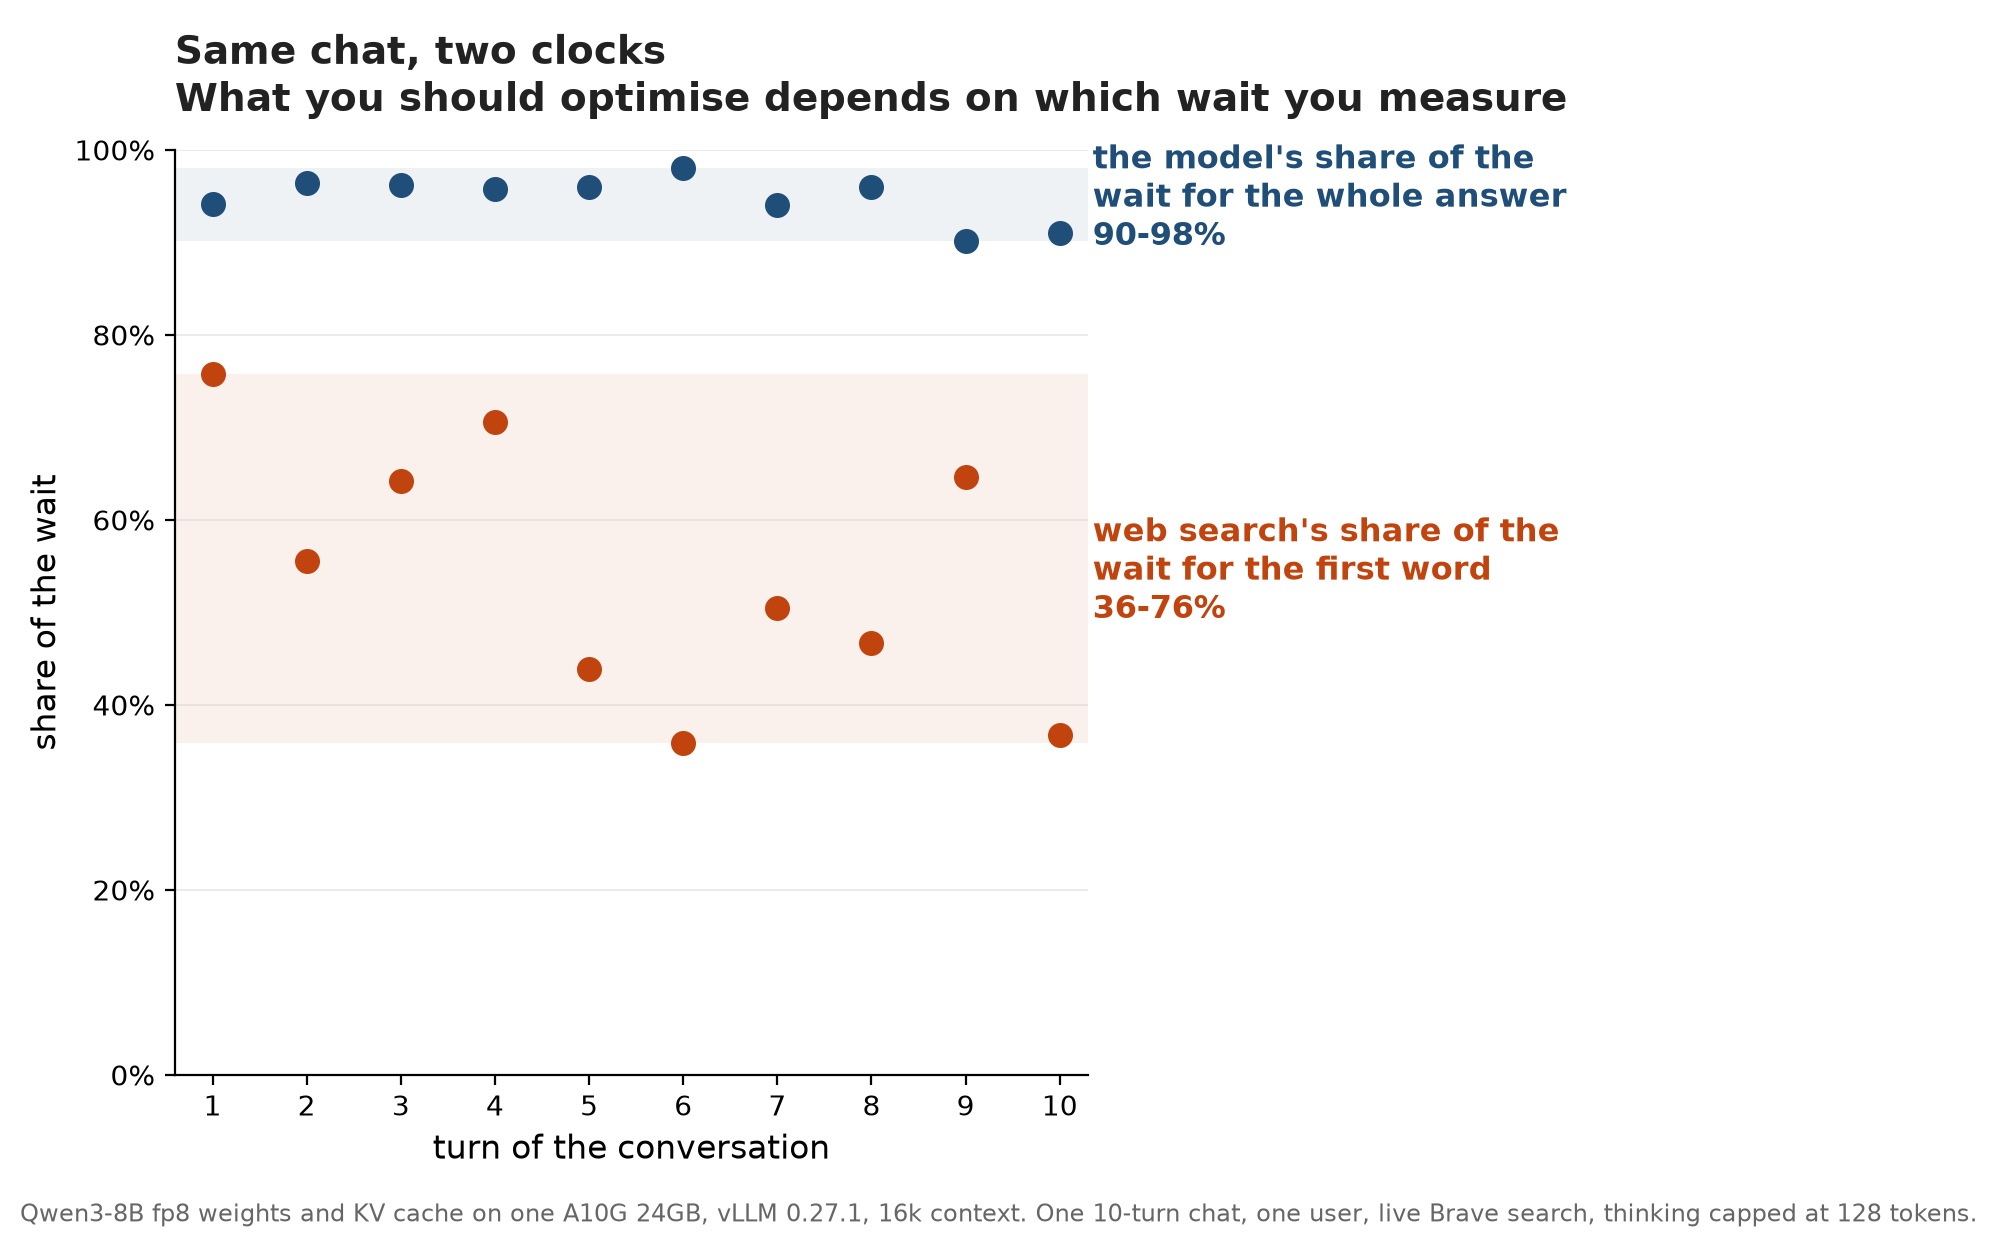
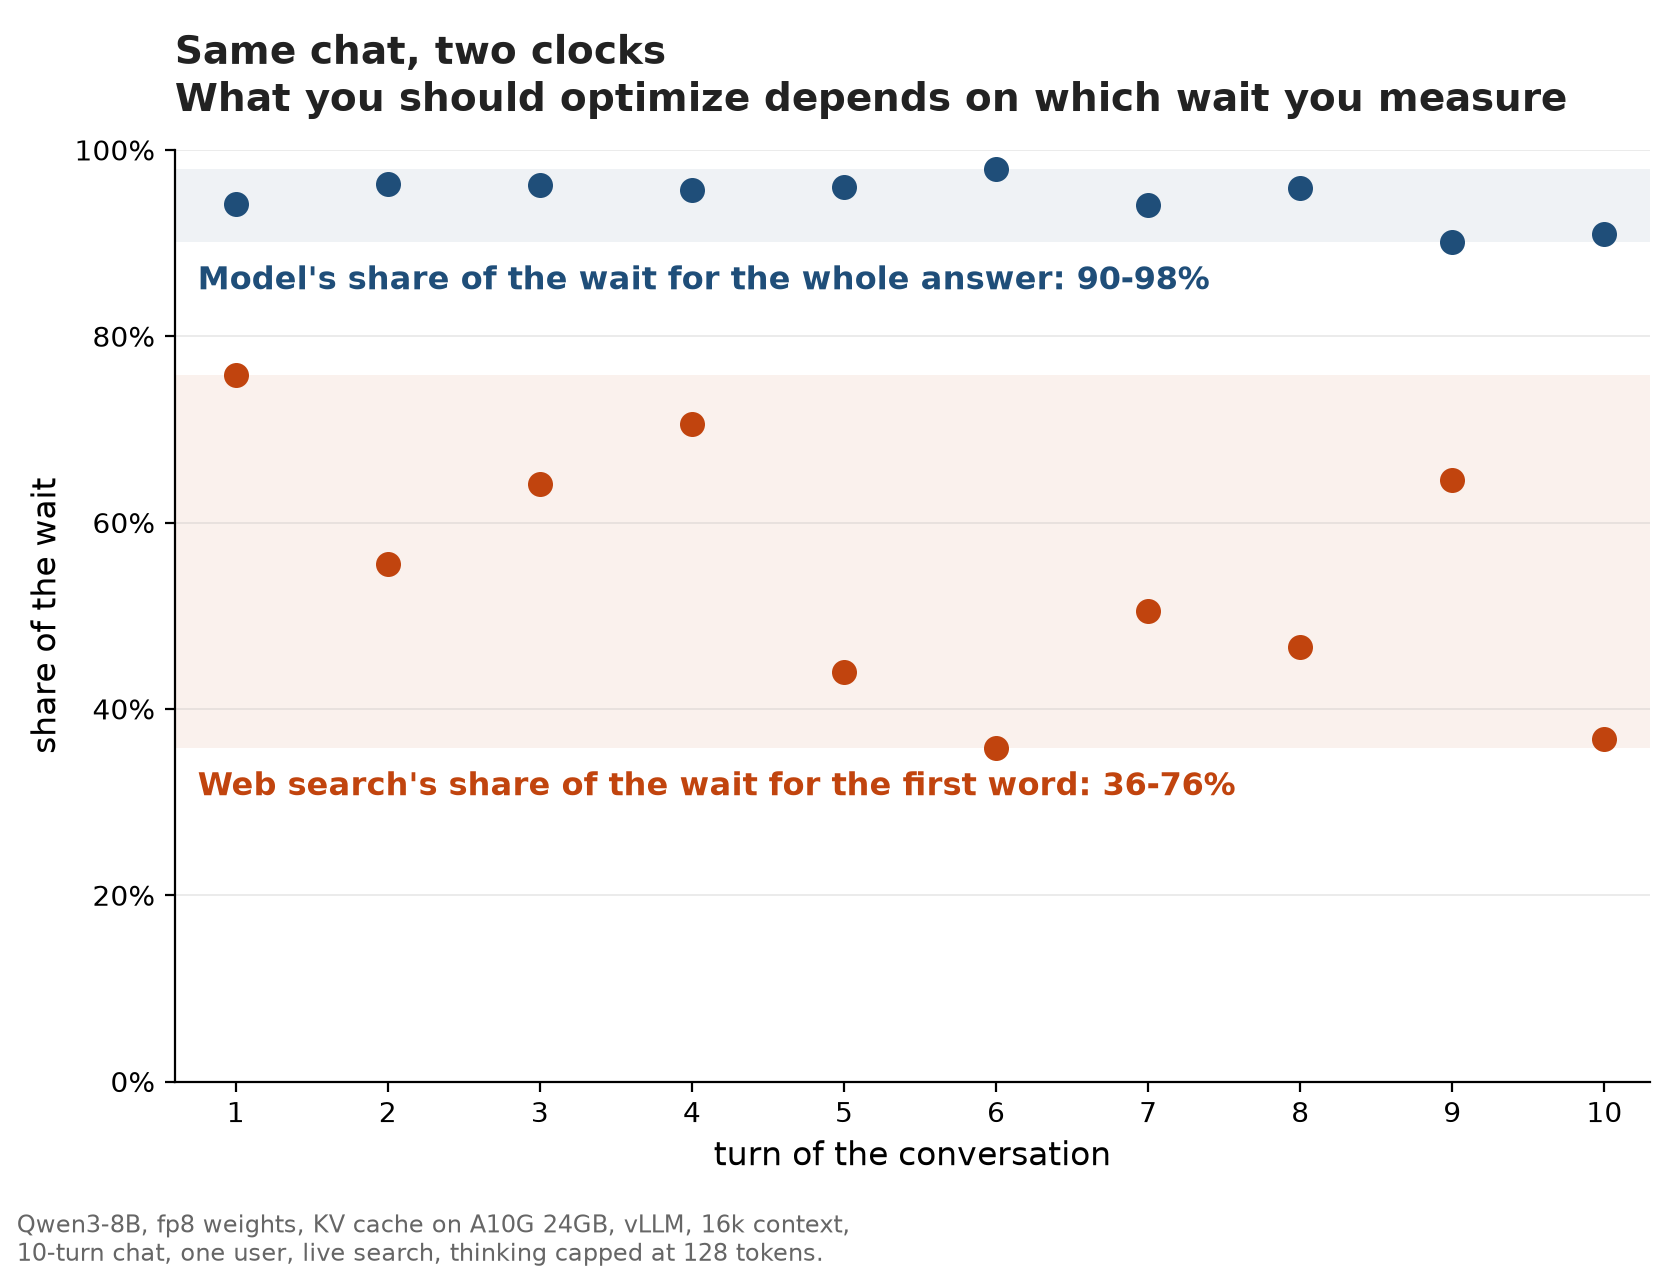
chart: narrower wait-split figure with labels inside the plot

diff --git a/tools/plot-wait-split.py b/tools/plot-wait-split.py
@@ -30,30 +30,30 @@ for r in sorted((r for r in load(args.app) if r.get("phase") == "convo"), key=la
 assert round(search_share[0], 1) == 75.8 and round(model_share[0], 1) == 94.2, (search_share[0], model_share[0])
 
 BLUE, ORANGE, INK, MUTED = "#1f4e79", "#c1440e", "#222222", "#666666"
-fig, ax = plt.subplots(figsize=(10, 6.2), dpi=200)
+fig, ax = plt.subplots(figsize=(8.4, 6.4), dpi=200)
 fig.patch.set_facecolor("#ffffff"); ax.set_facecolor("#ffffff")
 ax.axhspan(min(model_share), max(model_share), color=BLUE, alpha=0.07, lw=0)
 ax.axhspan(min(search_share), max(search_share), color=ORANGE, alpha=0.07, lw=0)
 ax.plot(turns, model_share, "o", ms=8, color=BLUE)
 ax.plot(turns, search_share, "o", ms=8, color=ORANGE)
 
-ax.text(10.35, sum(model_share) / len(model_share),
-        f"the model's share of the\nwait for the whole answer\n{min(model_share):.0f}-{max(model_share):.0f}%",
-        color=BLUE, fontsize=11.5, fontweight="bold", va="center")
-ax.text(10.35, sum(search_share) / len(search_share),
-        f"web search's share of the\nwait for the first word\n{min(search_share):.0f}-{max(search_share):.0f}%",
-        color=ORANGE, fontsize=11.5, fontweight="bold", va="center")
+ax.text(0.75, min(model_share) - 2.5,
+        f"Model's share of the wait for the whole answer: {min(model_share):.0f}-{max(model_share):.0f}%",
+        color=BLUE, fontsize=11.5, fontweight="bold", va="top")
+ax.text(0.75, min(search_share) - 2.5,
+        f"Web search's share of the wait for the first word: {min(search_share):.0f}-{max(search_share):.0f}%",
+        color=ORANGE, fontsize=11.5, fontweight="bold", va="top")
 
 ax.set_xticks(turns); ax.set_xlim(0.6, 10.3); ax.set_ylim(0, 100)
 ax.set_yticks(range(0, 101, 20)); ax.set_yticklabels([f"{v}%" for v in range(0, 101, 20)])
 ax.set_xlabel("turn of the conversation", fontsize=12)
 ax.set_ylabel("share of the wait", fontsize=12)
-ax.set_title("Same chat, two clocks\nWhat you should optimise depends on which wait you measure",
+ax.set_title("Same chat, two clocks\nWhat you should optimize depends on which wait you measure",
              fontsize=14, fontweight="bold", loc="left", pad=14, color=INK)
 ax.grid(axis="y", alpha=0.25, lw=0.7)
 for s in ("top", "right"): ax.spines[s].set_visible(False)
-fig.text(0.01, 0.015, "Qwen3-8B fp8 weights and KV cache on one A10G 24GB, vLLM 0.27.1, 16k context. One 10-turn chat, "
-         "one user, live Brave search, thinking capped at 128 tokens.", fontsize=8.5, color=MUTED)
-fig.tight_layout(rect=(0, 0.035, 0.80, 1))
+fig.text(0.01, 0.015, "Qwen3-8B, fp8 weights, KV cache on A10G 24GB, vLLM, 16k context,\n10-turn chat, "
+         "one user, live search, thinking capped at 128 tokens.", fontsize=8.5, color=MUTED)
+fig.tight_layout(rect=(0, 0.06, 1, 1))
 fig.savefig(args.out, facecolor="#ffffff")
 print(f"wrote {args.out}")
